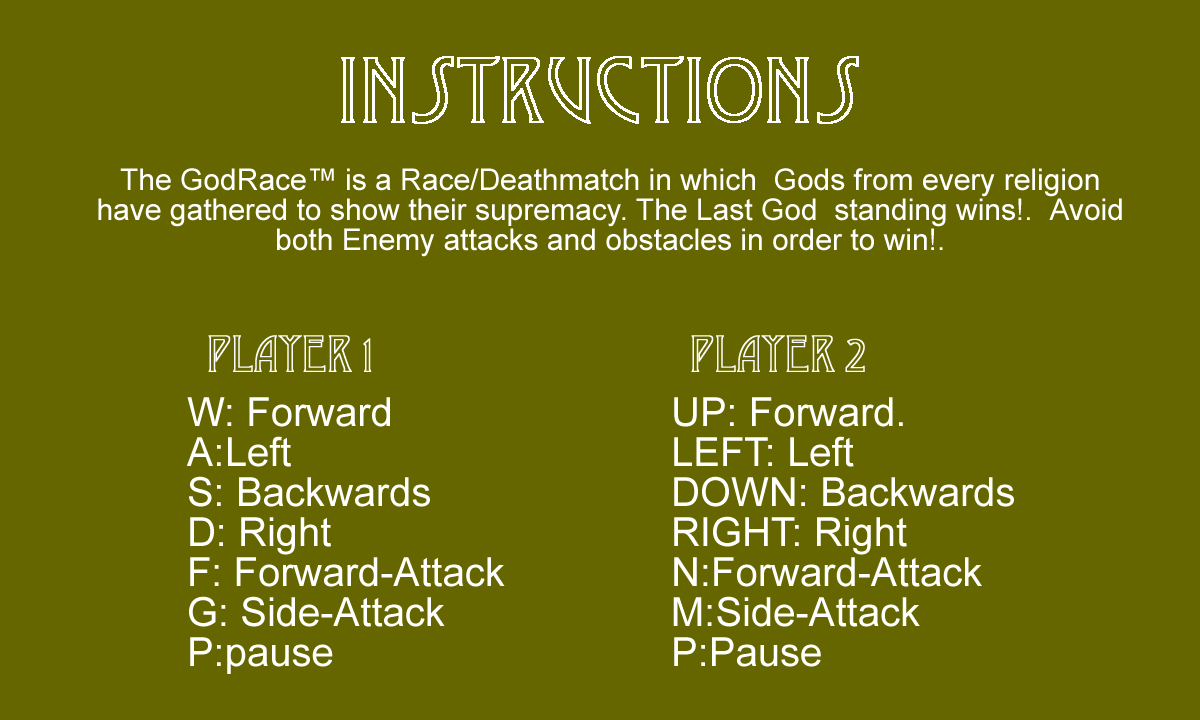
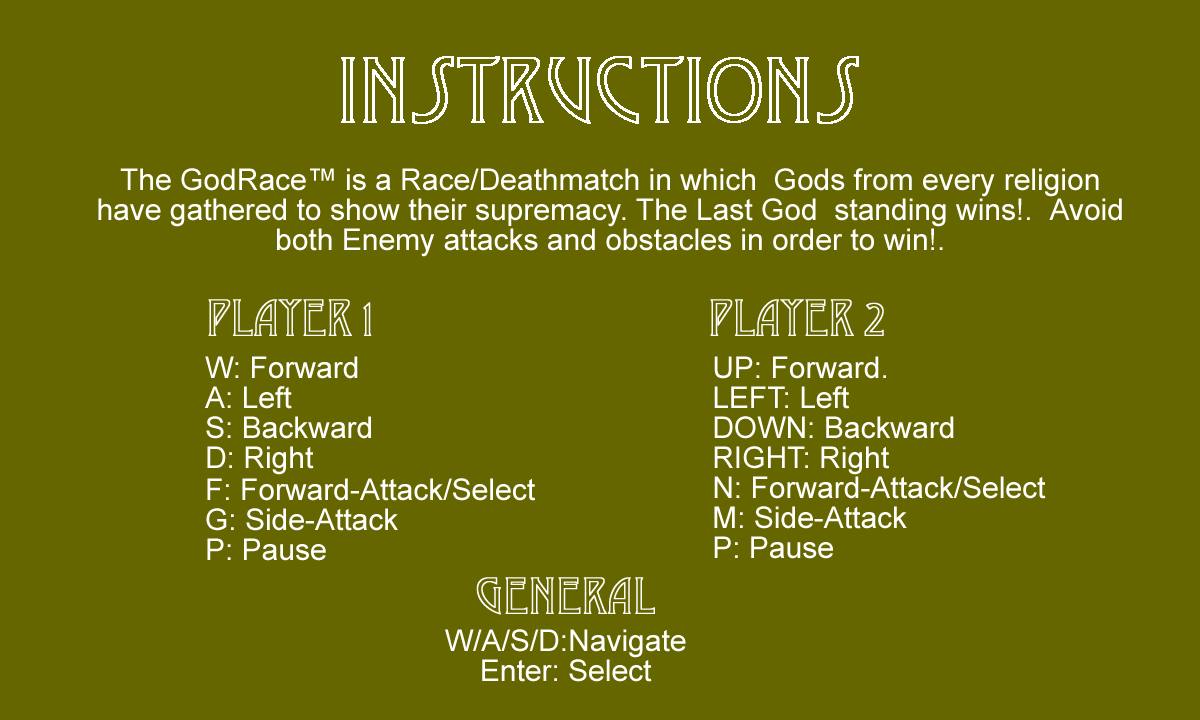
- Menus

Changed region(s): [[0.1542, 0.3972, 0.8633, 0.9472]]

diff --git a/src/godrace/Game.java b/src/godrace/Game.java
@@ -71,6 +71,7 @@ public class Game extends JFrame implements Runnable, KeyListener {
     private Image Jungle;
     private Image Underworld;
     private Image RainbowRoad;
+    private Image GameOver;
     private Image creditScreen;
     private Image cursorMenuInicialImg;
     private Image cursorP1Img;
@@ -144,6 +145,7 @@ public class Game extends JFrame implements Runnable, KeyListener {
             Jungle = Toolkit.getDefaultToolkit().getImage(this.getClass().getResource("/images/BioForge_Map1_JungleGIF.gif"));
             Underworld = Toolkit.getDefaultToolkit().getImage(this.getClass().getResource("/images/BioForge_Map2_UnderworldGIF.gif"));
             RainbowRoad = Toolkit.getDefaultToolkit().getImage(this.getClass().getResource("/images/BioForge_Map2_RainbowRoad.gif"));
+            GameOver = Toolkit.getDefaultToolkit().getImage(this.getClass().getResource("/images/BioForge_GameOver.gif"));
             creditScreen = Toolkit.getDefaultToolkit().getImage(this.getClass().getResource("/images/CREDITS.png"));
             
             // Imagenes de cursores de seleccion
@@ -340,16 +342,12 @@ public class Game extends JFrame implements Runnable, KeyListener {
             if (!start) {
                 switch (opcionMenu) {
                     case 0:
-                        cursorMenu.setPosX(720);
-                        cursorMenu.setPosY(400);
+                        cursorMenu.setPosX(750);
+                        cursorMenu.setPosY(465);
                     break;
                     case 1:
-                        cursorMenu.setPosX(580);
-                        cursorMenu.setPosY(505);
-                    break;
-                    case 2:
                         cursorMenu.setPosX(550);
-                        cursorMenu.setPosY(615);
+                        cursorMenu.setPosY(580);
                     break;
                 }
             } else if (!pausaCharSelect) {
@@ -735,7 +733,7 @@ public class Game extends JFrame implements Runnable, KeyListener {
                 
                 // Dibuja la pantalla de créditos
                 if (gameover) {
-                    g.drawImage(creditScreen, 0, 0, this);
+                    g.drawImage(GameOver, 0, 0, this);
                 }
             }
         }
@@ -759,9 +757,6 @@ public class Game extends JFrame implements Runnable, KeyListener {
                                 opcionMenu = 0;
                             break;
                             case 1:
-                                opcionMenu = 0;
-                            break;
-                            case 2:
                                 instrucciones = true;
                             break;
                         }
@@ -1206,13 +1201,10 @@ public class Game extends JFrame implements Runnable, KeyListener {
                 if (!start) {
                     switch(opcionMenu) {
                         case 0:
-                            opcionMenu = 2;
+                            opcionMenu = 1;
                         break;
                         case 1:
                             opcionMenu = 0;
-                        break;
-                        case 2:
-                            opcionMenu = 1;
                         break;
                     }
                 } else if (!pausaCharSelect) {
@@ -1284,9 +1276,6 @@ public class Game extends JFrame implements Runnable, KeyListener {
                             opcionMenu = 1;
                         break;
                         case 1:
-                            opcionMenu = 2;
-                        break;
-                        case 2:
                             opcionMenu = 0;
                         break;
                     }
